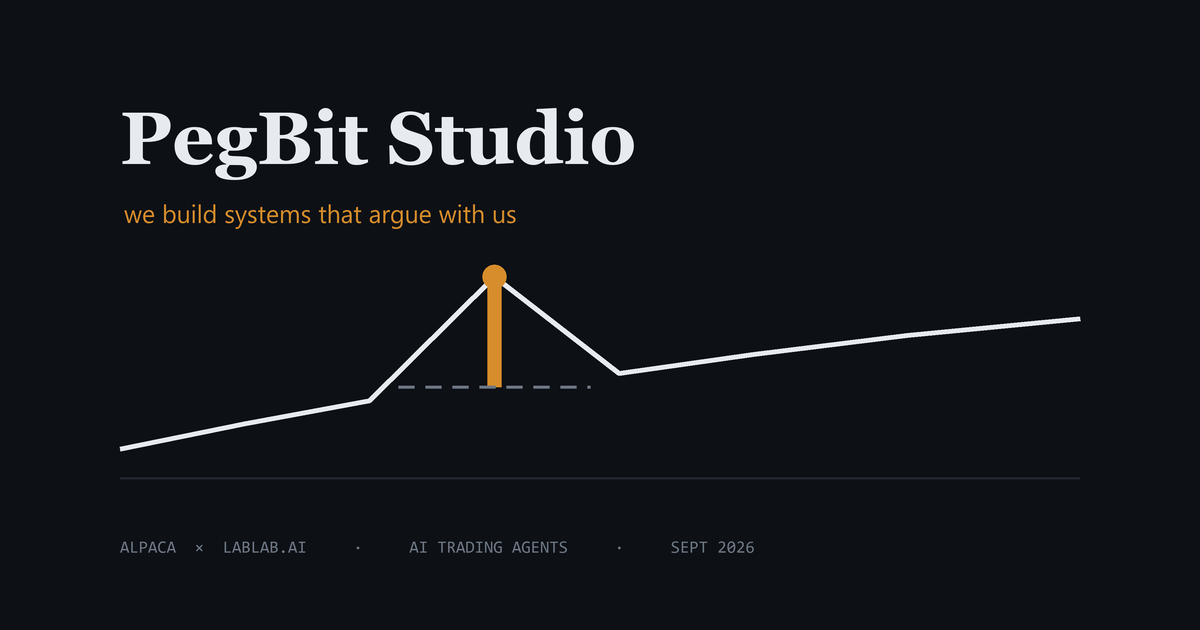
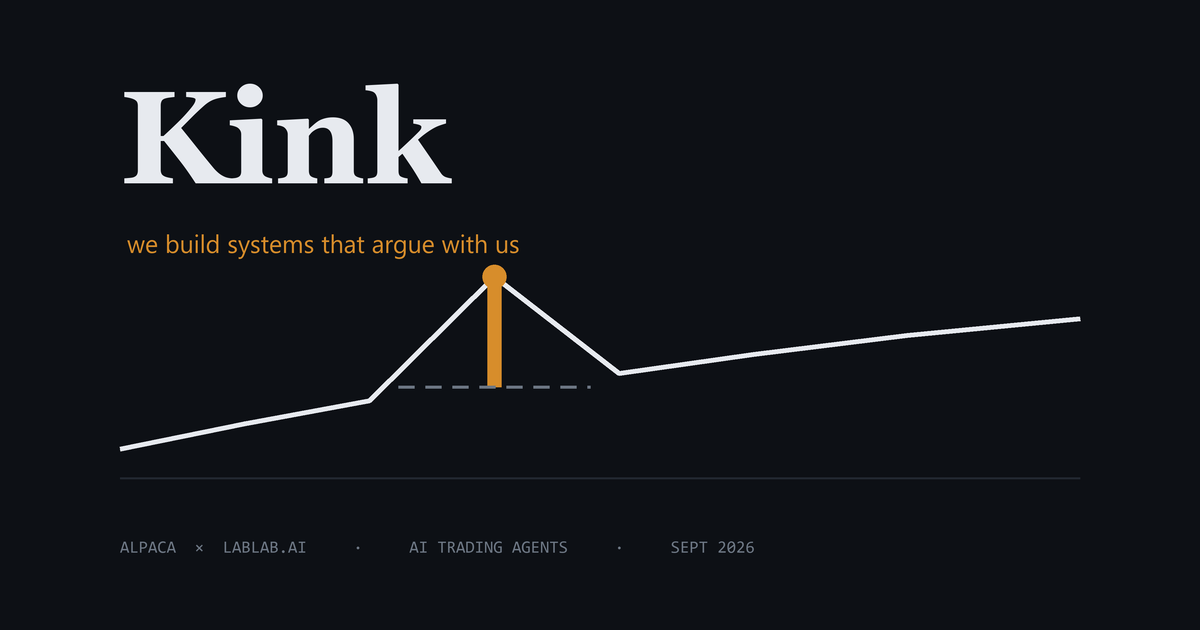
Team name is Kink
Scaled the wordmark up substantially. A four-letter name carries far
more weight than a two-word one, and at the previous size it read as an
afterthought in the corner rather than the subject of the image.

Changed region(s): [[0.0925, 0.1206, 0.555, 0.3016], [0.0925, 0.3317, 0.4317, 0.4222]]

diff --git a/tools/make_team_cover.py b/tools/make_team_cover.py
@@ -26,7 +26,7 @@ INK_FAINT = (109, 119, 132)
 RULE = (34, 40, 49)
 IDIO = (215, 141, 43)
 
-TEAM_NAME = "PegBit Studio"
+TEAM_NAME = "Kink"
 TAGLINE = "we build systems that argue with us"
 
 FONTS = pathlib.Path("C:/Windows/Fonts")
@@ -40,7 +40,7 @@ def build() -> Image.Image:
     img = Image.new("RGB", (W * S, H * S), GROUND)
     d = ImageDraw.Draw(img)
 
-    f_name = font("georgiab.ttf", 74)
+    f_name = font("georgiab.ttf", 132)
     f_tag = font("segoeui.ttf", 25)
     f_mono = font("consola.ttf", 17)
 
@@ -86,8 +86,8 @@ def build() -> Image.Image:
         x += dash + gap
 
     # --- the name ----------------------------------------------------------
-    d.text((120 * S, 96 * S), TEAM_NAME, font=f_name, fill=INK)
-    d.text((124 * S, 196 * S), TAGLINE, font=f_tag, fill=IDIO)
+    d.text((120 * S, 62 * S), TEAM_NAME, font=f_name, fill=INK)
+    d.text((127 * S, 226 * S), TAGLINE, font=f_tag, fill=IDIO)
 
     # --- footer ------------------------------------------------------------
     d.text((120 * S, 540 * S),
